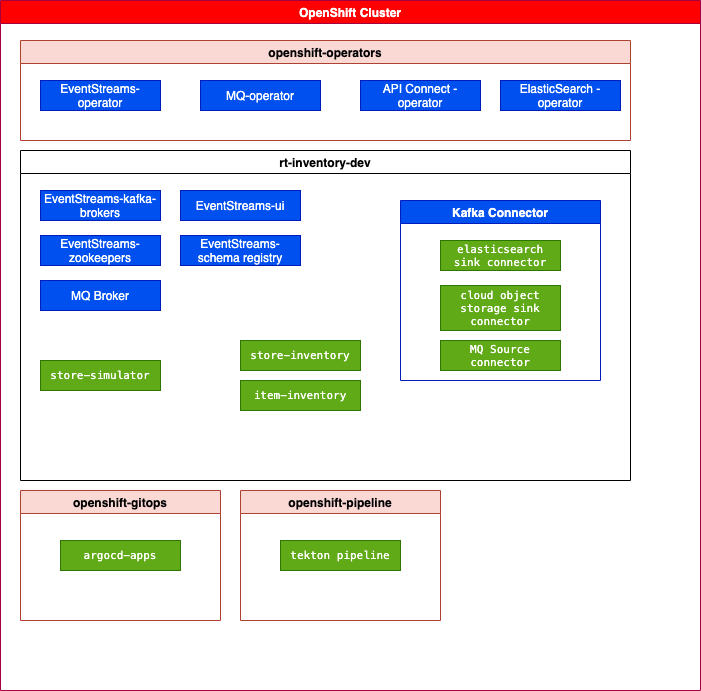
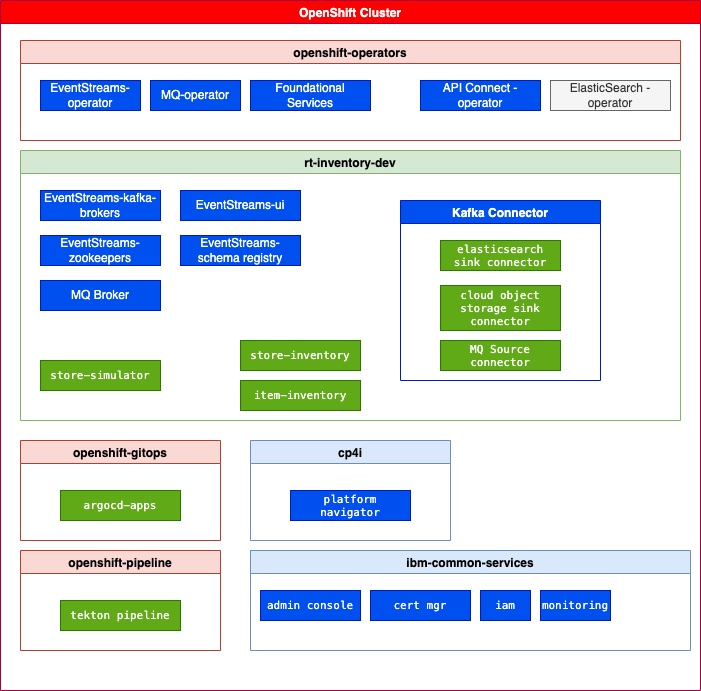
add platform nav

diff --git a/README.md b/README.md
@@ -6,6 +6,29 @@ to be able to boostrap some important operators like the OpenShift GitOps Operat
 ## Why to consider
 
 This project can be a good foundation to discuss GitOps deployment, and reuse scripts, makefile... to deploy event-driven solution.
+
+The installation approach is to deploy operators to manage All Namespacess, at cluster scope. So only one Platform UI can be installed per cluster. A single instance of IBM Cloud Pak foundational services is installed in the ibm-common-services namespace.
+
+The following operators may be installed from this GitOps:
+
+* name:ibm-integration-platform-navigator
+* name:ibm-integration-asset-repository
+* name:ibm-integration-operations-dashboard
+* name:ibm-eventstreams
+* name:ibm-mq
+
+The entitlement key secret will be copied to each namespace where some of the Cloud Pak integration products are deployed, using a kubernetes job.
+## Pre-requisites
+
+All the CLI commands must be performed by a Cluster administrator.
+You need `oc cli` and the `jq` JSON stream editor installed.
+
+You need an OpenShift cluster available with storage capabilities to support Event Streams deployments like block storage configured to use the XFS or ext4 file system, as described in [Event Streams storage](https://ibm.github.io/event-streams/installing/prerequisites/#data-storage-requirements).
+
+You need to have one volume per broker and zookeeper instances.
+ 
+See also the [interactive Installation Guide for cloud pak for integration](https://www.ibm.com/docs/guide/viewer/public/cloud-paks/cp-integration/2021.4?interact=installing-cloud-pak-for-integration&utm_source=guide). 
+
 ## What is covered
 
 This GitOps supports bootstrapping the solution as a Day 1 operation, with the deployment of operators, secrets, pipelines... and then Day 2 operations, as once the solution is deployed, all changes to the configurations are done in this repository, manage with the Git PR process and changes are propagated by ArgoCD to the runtime cluster.
@@ -13,9 +36,9 @@ This GitOps supports bootstrapping the solution as a Day 1 operation, with the d
 In this Gitops you can use different approaches to deploy the real-time inventory solution depending of your goals.
 
 * You want to play with the demo, so [run it locally to your laptop using docker](#run-the-solution-locally). It uses Event Streams and MQ docker images. You can run it in different mode, depending of the sinks you want to add.
-* [Start from an OpenShift Cluster without any Cloud Pak for Integration components](#gitops-from-openshift-cluster), this will take few hours to deploy as some Operators may take time. 
+* [Start from an OpenShift Cluster without any Cloud Pak for Integration components](#gitops-from-a-new-openshift-cluster), this will take few hours to deploy as some Operator and Operand deployments may take time. 
 * [Start from a Cloud Pak for integration deployed in cp4i project](#gitops-from-cp4i-deployment)
-* Deploy the solution on a CMC CoC environment, which mean different name space per product, so for example Event Streams is in [multi-tenant](#gitops-for-multi-tenants).
+* Deploy the solution on a CMC CoC environment, which means different namespaces per product, so for example Event Streams is in `cp4i-eventstreams`. See instruction in [multi-tenant section](#gitops-for-multi-tenants).
 
 You are not forced to use ArgoCD, you can just use the makefile and make to deploy the solution.
 ## Real-time inventory scenario presentation
@@ -32,18 +55,18 @@ components deployed by this GitOps:
 ![](./docs/images/mq-es-demo.png)
 
 
-* The store simulator injects directly sell or restock events to Kafka to the `items` topic
-* The store simulator can also generate messages to IBM MQ using JMS API or to RabbitMQ using AMQP protocol
-* When messages are sourced to Queues, then a Kafka Source Connector is used to propagate message to `items` topics.
+* The store simulator send sell or restock messages to MQ ITEMS queue, which are picked up by Kafka source connector to publish to kafka `items` topic. 
+* The store simulator send directly to Kafka to the `items` topic
 * The Item-aggregator component computes items inventory cross stores, so aggregate at the item_ID level. 
 * The Store-aggregator computes aggregate at the store level for each items.
-
+* Sink connector can write to Cloud Object Storage buckets
+* Sink connector can write to Elastic Search
 
 ## Two different streaming approaches
 
 We propose two approaches to develop the streaming processing. 
 
-* One using Kafka Streams 
+* One using Kafka Streams with two applications
 * One using Apache Flink
 
 ### Kafka Streams implementation
@@ -129,7 +152,7 @@ Kafdrop UI to see messages in `items`, `store.inventory` and `item.inventory` to
 
   ![](./docs/images/store-inventory-content.png)
 
-* If using ElasticSearch go to Kibana UI at []()
+* If using ElasticSearch go to Kibana UI at [localhost:5601](http://localhost:5601)
 
 * Stop the demo
 
@@ -170,16 +193,16 @@ kam bootstrap \
 
 * Added a bootstrap folder to define gitops and Cloud Pak for integration capabilities operator declarations and to create an ArgoCD project
 * Defined a script to install IBM Catalogs and Cloud Pak for Integration components 
-* Added scripts to deploy the gitops, pipelines operators using Makefile.
+* Added Makefile and scripts to deploy the gitops, pipelines operators and different elements.
 
 ## GitOps from a new OpenShift Cluster
 
-The GitOps approach is using the [EDA catalog repository](https://github.com/ibm-cloud-architecture/eda-gitops-catalog) to keep product-specific operator subscription definitions, where product instance definitions are part of this [real-time inventory solution GitOps](https://github.com/ibm-cloud-architecture/eda-rt-inventory-gitops) repository. This corresponds to the yellow rectangles in the figure below:
+The GitOps approach is using the [EDA catalog repository](https://github.com/ibm-cloud-architecture/eda-gitops-catalog) to keep product-specific operator subscriptions, where product instance definitions are part of this [real-time inventory solution GitOps](https://github.com/ibm-cloud-architecture/eda-rt-inventory-gitops) repository. This corresponds to the yellow rectangles in the figure below:
 
 ![](./docs/images/gitops-catalog.png)
 
 
-### What is deployed
+### What is deployed in this demonstration
 
 The development project includes event-streams, MQ, schema registry... 
 
@@ -328,35 +351,23 @@ The expected set of ArgoCD apps looks like:
 
 TBD 
 
-## GitOps from CP4I deployment
+## Deploy in existing CP4I deployment
 
-In this section we suppose CP4I is already deployed in a unique `cp4i` namespace. So somewhere someone has already deployed the infrastructure, to deploy the components as multi tenants. (This is represented as the green rectangles in the figure below)
+In this section we suppose CP4I is already deployed in `cp4i` namespace. So somewhere someone has already deployed the infrastructure, and other components as multi tenants. (This is represented as the green rectangles in the figure below)
 
 ![](./docs/images/gitops-multi-tenants.png)
 
-So the focus is on the solution component deployment.
-
-### Bootstrap GitOps
+So the focus is on the solution component deployment:
+## Bootstrap GitOps
 
 * Login to the OpenShift Console, and get login token to be able to use `oc cli`
-* If not done already, use the script to install GitOps and Pipeline operators: 
+* If not done already, use the script to install GitOps and Pipeline operators:
 
   ```sh
-    ./bootstrap/scripts/installGitOpsOperators.sh
+  # 
+  make verify_argocd
   ```
     
-  Once the operators are running the command: `oc get pods -n openshift-gitops` should return
-a list of pods like:
-
-  ```sh
-    NAME                                                          READY   STATUS    RESTARTS   AGE
-    openshift-gitops-application-controller-0                     1/1     Running   0          4h5m
-    openshift-gitops-applicationset-controller-6948bcf87c-jdv2x   1/1     Running   0          4h5m
-    openshift-gitops-dex-server-64cbd8d7bd-76czz                  1/1     Running   0          4h5m
-    openshift-gitops-redis-7867d74fb4-dssr2                       1/1     Running   0          4h5m
-    openshift-gitops-repo-server-6dc777c845-gdjhr                 1/1     Running   0          4h5m
-    openshift-gitops-server-7957cc47d9-cmxvw                      1/1     Running   0          4h5m
-  ```
 
 * Create an ArgoCD project named `rt-inventory`
 
@@ -388,24 +399,24 @@ a list of pods like:
 
 ## Gitops for multi-tenants
 
-This is another interesting deployment where some of the products are shared between teams.
+This is another interesting deployment where some of the products are shared between teams like Event Streams in `cp4i-eventstreams` project.
 
-Here is a diagram to illustrate the deployment:
+Here is a diagram to illustrate this multi-tenant deployment:
 
 ![](./docs/images/gitops-multi-tenants.png)
 
 Some particularities:
 
 * Event Streams is in its own project, so topics, users follow a naming convention for deployment to avoid colision with other teams / solutions
-* MQ broker runs local to the solution namespace. (rt-inventory has its own MQ Broker)
+* MQ broker runs local to the solution namespace. (`rt-inventory-dev` has its own MQ Broker)
 
 
 ```sh
 make multi-tenants
 ```
 
-* Get Store Simulation URL and access to the console:
+* Get Store Simulator URL and execute the demonstration script:
 
-```
-chrome $()
+```sh
+chrome $(oc get routes store-simulator -o jsonpath='{.status.ingress[].host};)
 ```
